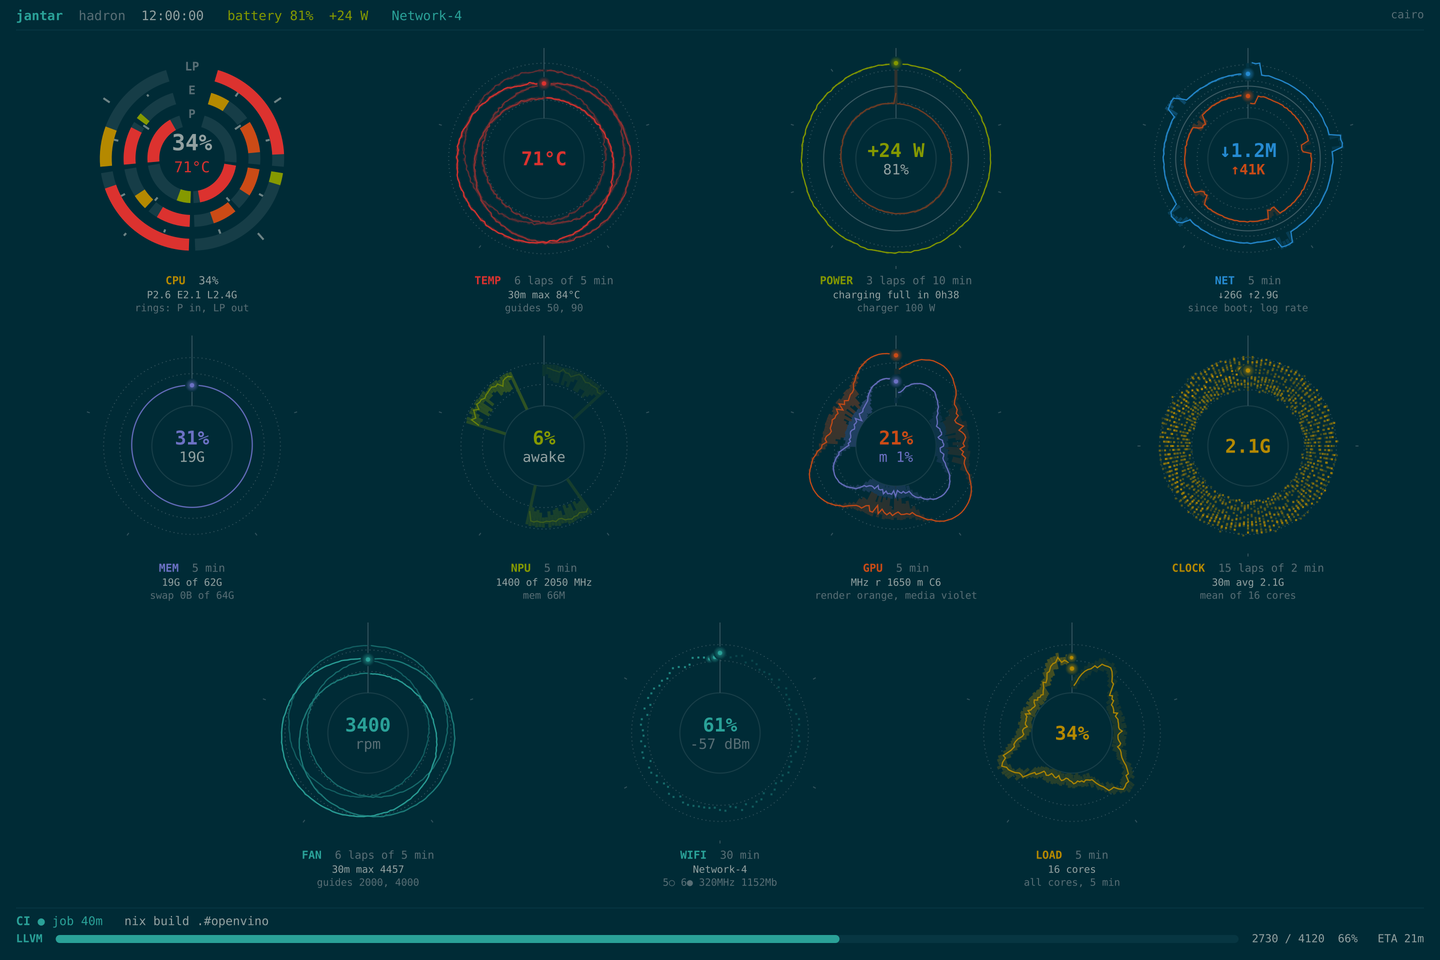
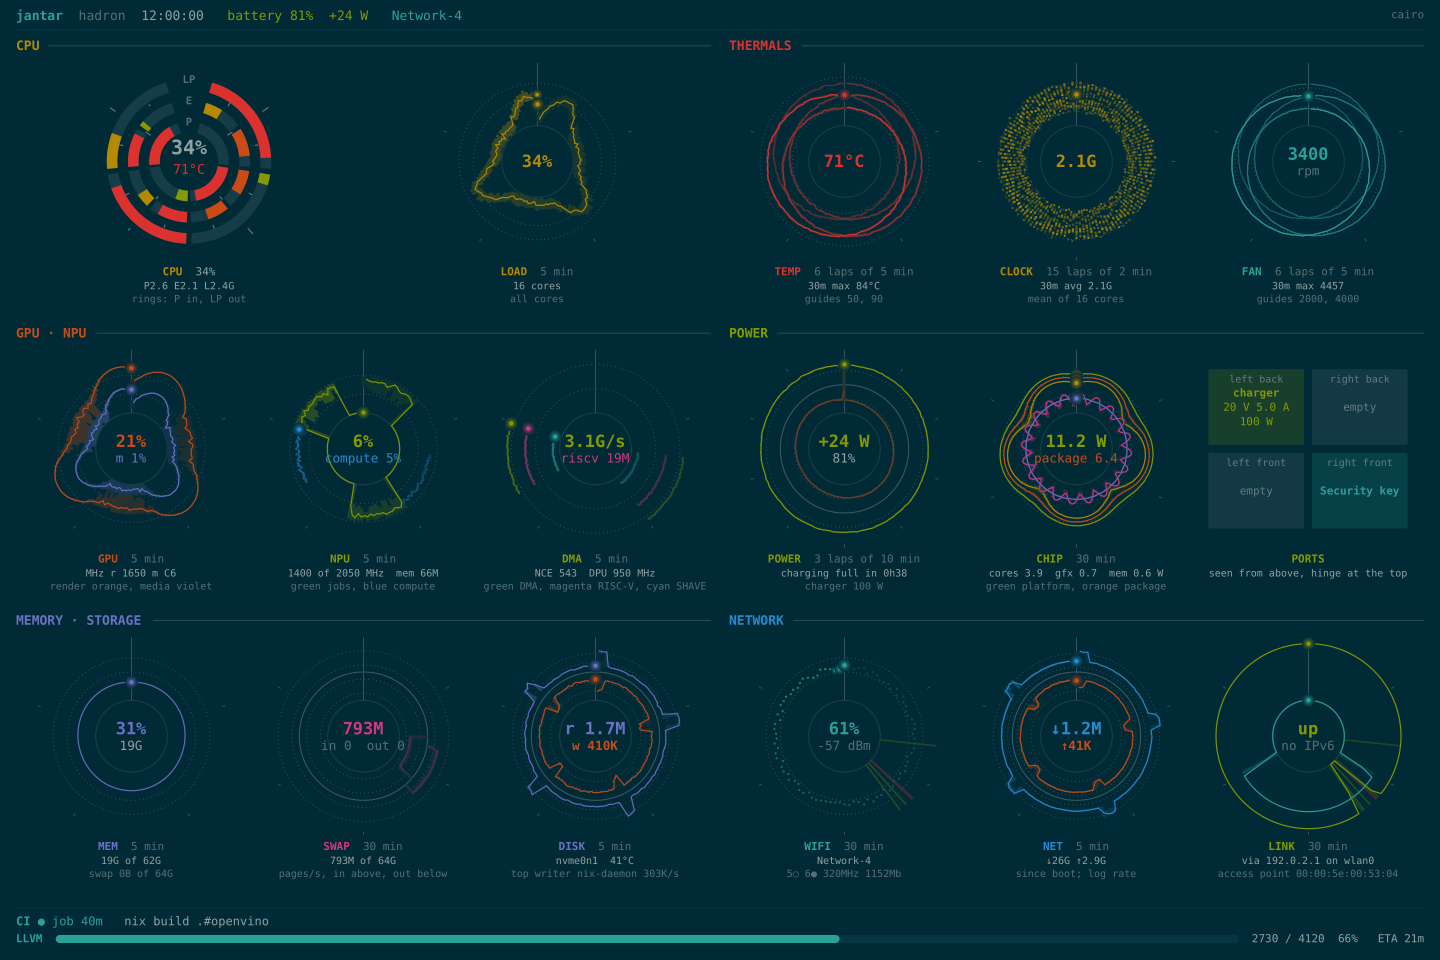
README and screenshots for publishing; documentation addresses
The screenshots showed the old grid layout. New ones from the demo
snapshot: the overview, the GPU · NPU section zoomed in, and the light
theme. The README is shorter, with the keys and the newer options.

Example MACs and IPs now come from the ranges reserved for
documentation (RFC 9542 00:00:5e:00:53:xx, RFC 5737 192.0.2.0/24 and
198.51.100.0/24), as does the fixture capture script's anonymiser.

diff --git a/README.md b/README.md
@@ -2,9 +2,9 @@
 
 A polar-dial system dashboard for the Linux text console, written for the
 BEAM. Switch to its console (Ctrl+Alt+F12) and the whole machine is on one
-screen: per-core CPU, temperature, power, network, memory, NPU, GPU, clocks,
-fans, Wi-Fi, load and the CI runner. Each dial shows how its sensor has moved
-over the last few minutes, not just its current value.
+screen: CPU cores, thermals, power, the NPU and GPU, memory, storage and the
+network, with a CI build's progress in the footer. Each dial shows how its
+sensor has moved over the last few minutes, not just its current value.
 
 ![jantar, Solarized dark](docs/screenshots/dark.png)
 
@@ -14,37 +14,24 @@ instruments for following the sun and moon.
 
 ## Reading the dials
 
-Time runs clockwise from the top, one lap per period (e.g. 6 laps of 5 min),
-and the distance from the centre is the value. The newest sample is the
-bright dot at the top; older laps fade. A busy series (sampled every 250 ms)
-is drawn as a trace with a band from its minimum to its maximum; a slow one
-(Wi-Fi every 20 s) keeps its dots. The CPU dial is rings of cores by tier
-(performance, efficient, low-power), and the footer follows a CI build with
-its progress and ETA.
-
-![close-ups: CPU cores, GPU render and media, clocks, load](docs/screenshots/dials.png)
+Time runs clockwise from the top, one lap per period, and the distance from
+the centre is the value. The newest sample is the bright dot at the top;
+older laps fade. Busy series are drawn as a trace with a min-max band,
+slow ones as dots. Radial lines mark Wi-Fi roams, link drops and restarts.
 
 ## Keys
 
-On the dashboard's console:
-
 | key | overview | zoomed in |
 | --- | --- | --- |
-| `1` `2` `3` | live, the last day, the last 30 days | the last 1, 5, 30 minutes, as one lap |
-| `c` `t` `g` `p` `m` `n` | zoom in on CPU, thermals, GPU · NPU, power, memory · storage, network (screen order: left to right, top to bottom) | switch to that section (its own letter goes back) |
-| `Esc` `0` `q` | | back to the overview, as it was |
+| `c` `t` `g` `p` `m` `n` | zoom in on a section, in screen order | switch section |
+| `1` `2` `3` | live, last day, last 30 days | last 1, 5, 30 minutes |
+| `Esc` | | back to the overview |
 
-Zoomed in, one section fills the screen with larger dials. A window longer
-than a series keeps its samples (network traffic keeps 5 minutes) comes from
-the per-minute archive instead.
+![the GPU · NPU section, zoomed in](docs/screenshots/zoom.png)
 
-It follows Solarized light or dark:
+It follows Solarized light or dark, and shows whatever sensors a machine has.
 
-![jantar, Solarized light](docs/screenshots/light.png)
-
-and fits whatever sensors a machine has. In a VM with six of them:
-
-<img src="docs/screenshots/vm.png" alt="jantar in a VM with six sensors" width="640">
+<img src="docs/screenshots/light.png" alt="jantar, Solarized light" width="640">
 
 ## Running it on NixOS
 
@@ -70,9 +57,10 @@ jantar.nixosModules.default
 }
 ```
 
-It runs as its own user with access to just the framebuffer and its console,
-no network and no capabilities. Other options: `framebuffer`, `maxFps` (4)
-and `batteryMaxFps` (2).
+It runs as its own user with access to just the framebuffer, its console and
+the NPU, no network and no capabilities. Other options include `powercap`
+(RAPL power breakdown), `usbBays` (which USB-C port is which) and `maxFps`;
+see [nix/module.nix](nix/module.nix).
 
 It needs a framebuffer console (`/dev/fb0`, from simpledrm or your GPU
 driver's fbdev emulation) and expects 32-bit XRGB pixels. It was built on a
@@ -120,8 +108,9 @@ original.
 
 ## Status
 
-* Done: sensors and history; both renderers; the Nix package, NixOS service
-  and VM test.
+* Done: sensors and history, including the Intel NPU's Level Zero counters;
+  both renderers; zooming into a section; the Nix package, NixOS service and
+  VM test.
 * Next: a fleet view, watching several machines over MQTT
   ([plan](docs/milestone-5-fleet.md)).
 
